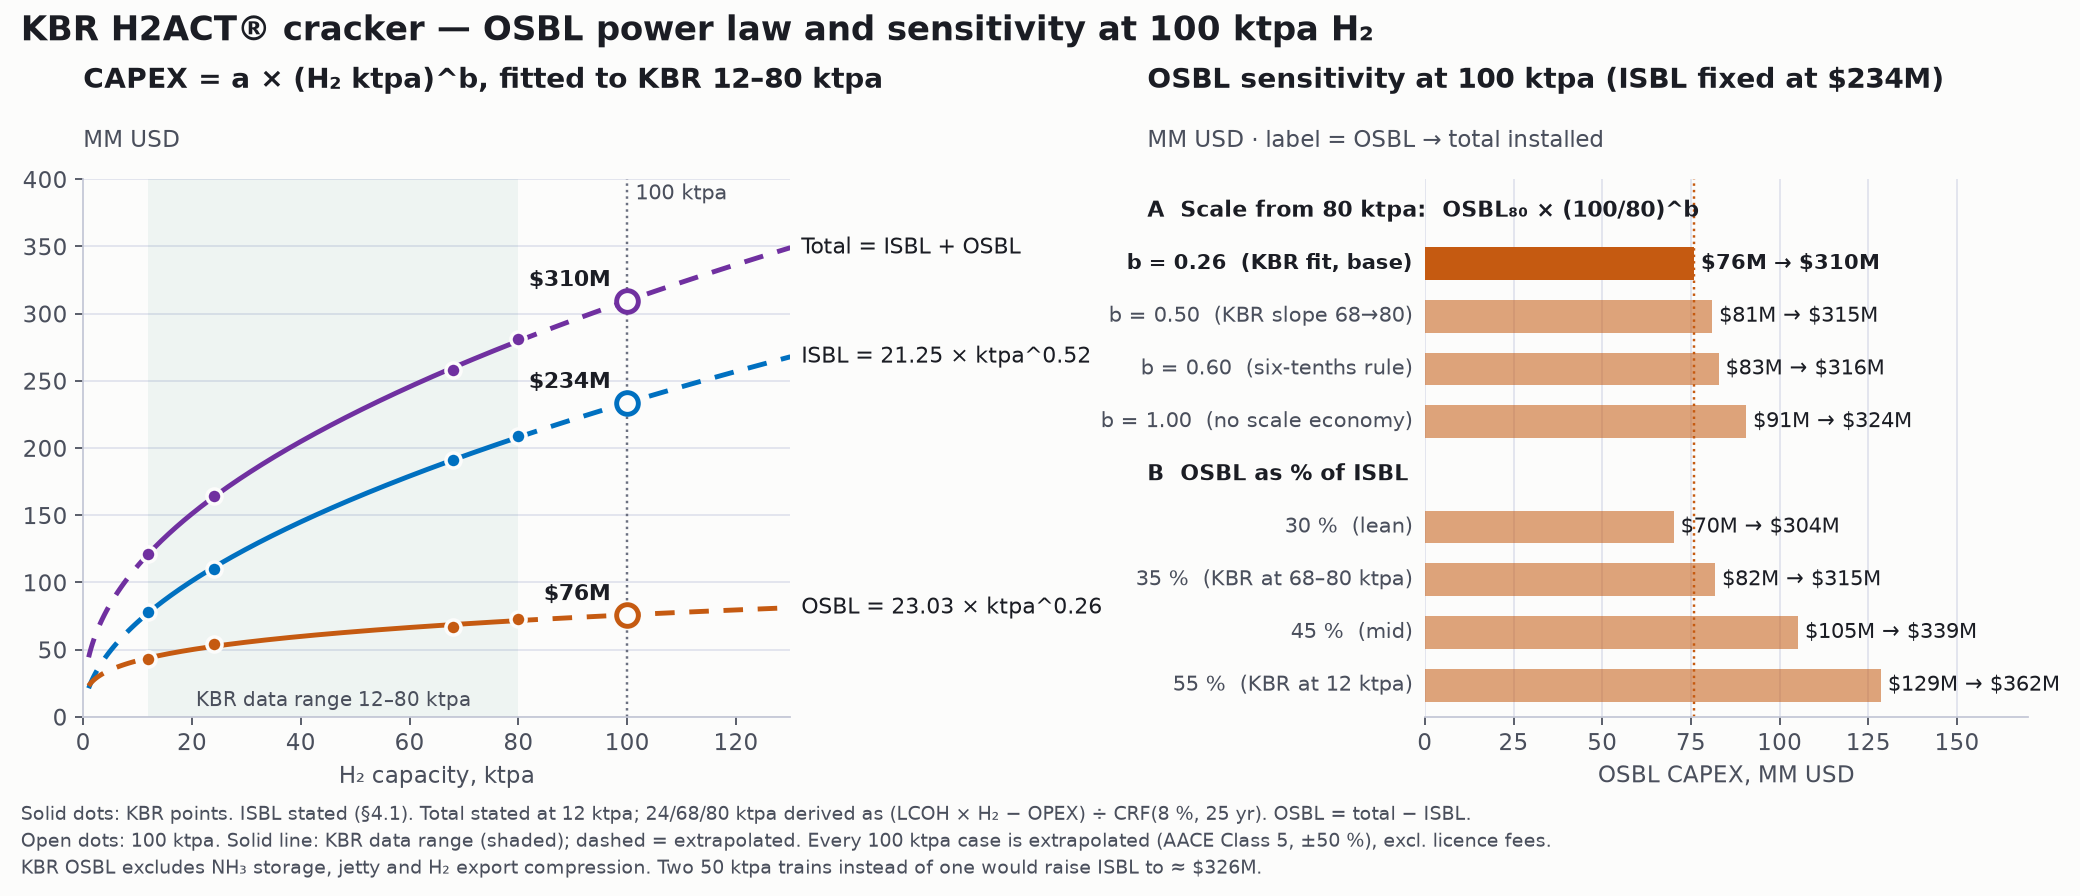
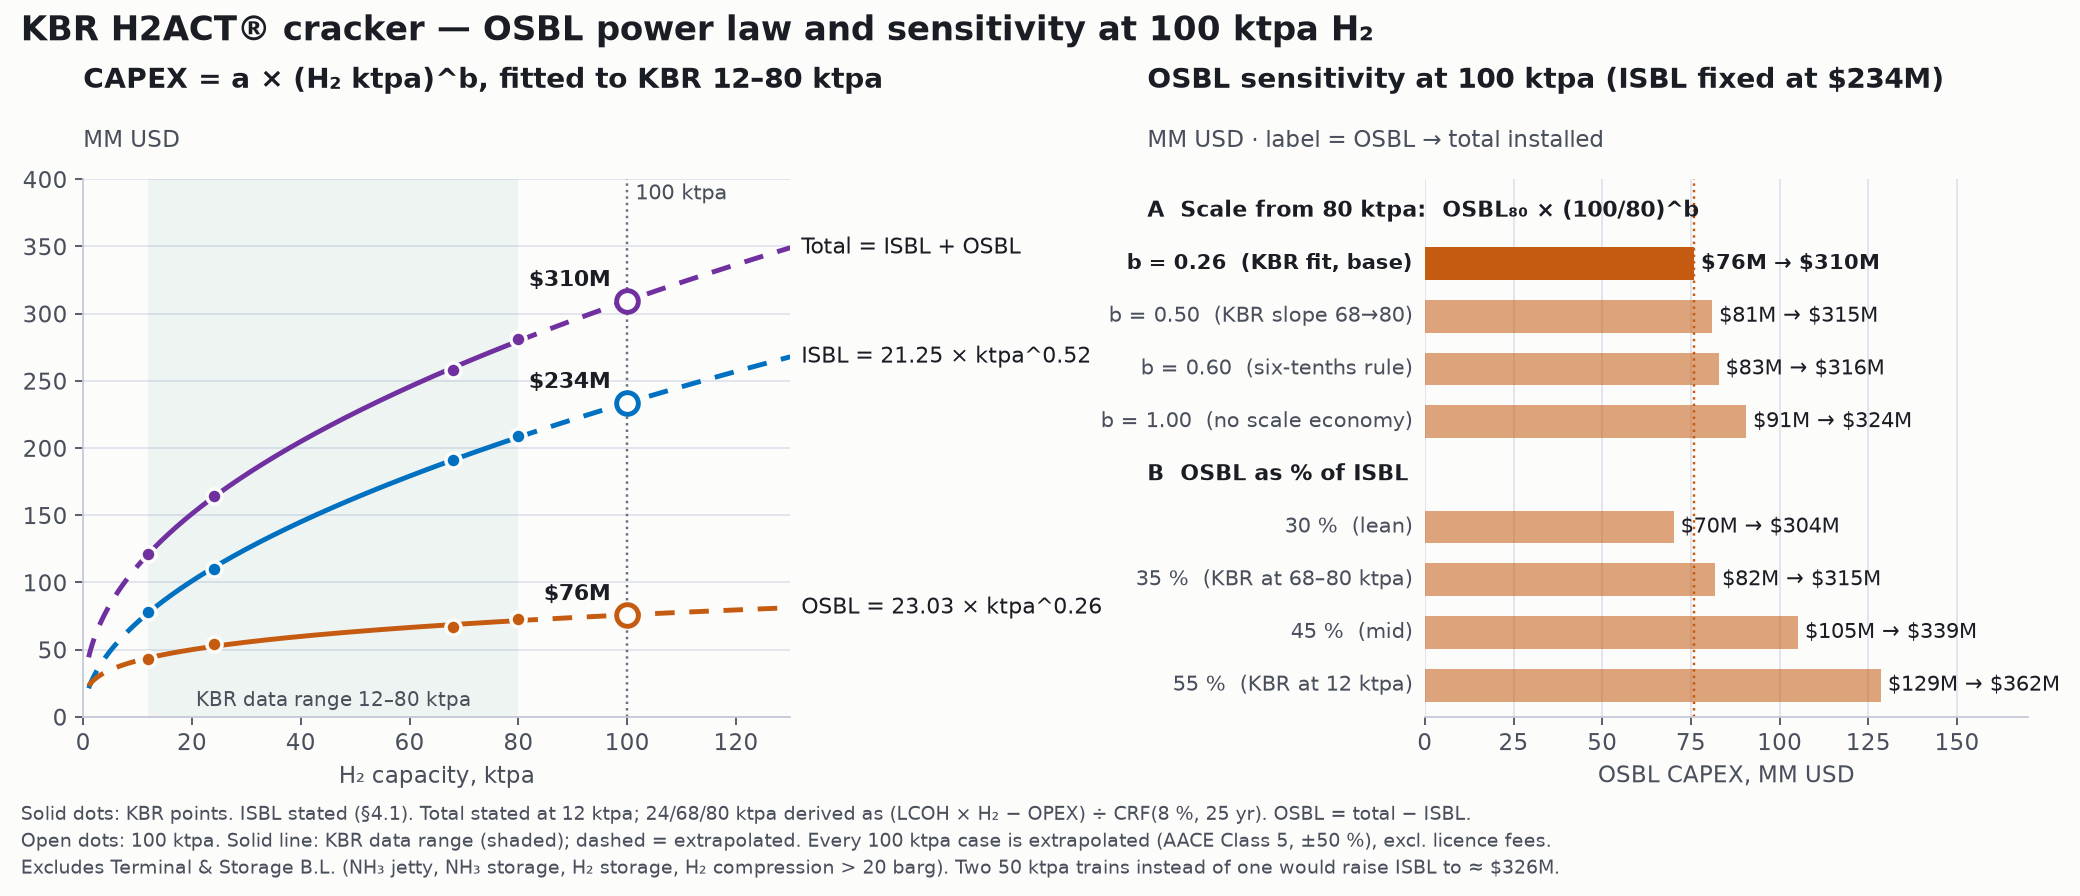
Cracker: name the scope outside KBR OSBL as Terminal & Storage B.L.
NH3 jetty, NH3 storage and storage flare, H2 storage and H2 compression above 20 barg
are not in KBR's OSBL equipment list (I.H) and are now labelled as a separate battery
limit in the CAPEX note, the cracker notes and the OSBL sensitivity chart.

Claude-Session: https://claude.ai/code/session_01CzfTw3rdW39anGrdQ1CELx

Changed region(s): [[0.0, 0.9375, 0.6875, 1.0], [0.7188, 0.9375, 0.75, 1.0]]

diff --git a/Dashboard/public/modules/nh3-cracker-design.html b/Dashboard/public/modules/nh3-cracker-design.html
@@ -1199,7 +1199,7 @@ function renderCapex(I, r) {
       <tr class="${r.ref === "duiker" ? "active" : ""}"><td>Duiker lump-sum turnkey</td><td>12 → ${fmt(DUIKER.capexEurM * I.fx, 1)} (€47M × ${fmt(I.fx, 4)})</td><td class="n">${fmt(DUIKER.capexEurM * I.fx / Math.pow(12, I.duikerExp), 2)}</td><td class="n">${fmt(I.duikerExp, 3)}</td><td class="n">—</td><td>One point; exponent borrowed (default = KBR total fit)</td></tr>
     </tbody>`;
   const osbl = caps(KBR_TOTAL).map((c) => `${c} ktpa ${fmt((KBR_TOTAL[c].v / KBR.isbl[c] - 1) * 100, 0)} %`).join(", ");
-  $("capexNote").innerHTML = `CAPEX = a × (H₂ ktpa)<sup>b</sup>, least-squares fit in log space. KBR total installed = ISBL fit + OSBL fit; the OSBL exponent (${fmt(FIT_OSBL.b, 2)}) is flatter than ISBL (${fmt(FIT_ISBL.b, 2)}), so OSBL's share falls with scale. KBR OSBL excludes NH₃ storage, jetty and H₂ export compression. KBR's LCOH implies OSBL shrinks with scale (${osbl} of ISBL), matching KBR's note that OSBL "reduces for larger capacity"; the flat 55 % used elsewhere overstates OSBL above 24 ktpa. Duiker's €47M already includes buildings, civil works, EPC and the construction licence fee (Table 8). KBR excludes contingency, owner's costs, licence fees and royalties (§4.1).`;
+  $("capexNote").innerHTML = `CAPEX = a × (H₂ ktpa)<sup>b</sup>, least-squares fit in log space. KBR total installed = ISBL fit + OSBL fit; the OSBL exponent (${fmt(FIT_OSBL.b, 2)}) is flatter than ISBL (${fmt(FIT_ISBL.b, 2)}), so OSBL's share falls with scale. KBR OSBL (Annex I.H utilities and offsites) does not cover the <b>Terminal &amp; Storage B.L.</b>: NH₃ jetty, NH₃ storage and storage flare, H₂ storage and H₂ compression above KBR's 20 barg delivery. Cost these separately. KBR's LCOH implies OSBL shrinks with scale (${osbl} of ISBL), matching KBR's note that OSBL "reduces for larger capacity"; the flat 55 % used elsewhere overstates OSBL above 24 ktpa. Duiker's €47M already includes buildings, civil works, EPC and the construction licence fee (Table 8). KBR excludes contingency, owner's costs, licence fees and royalties (§4.1).`;
 }
 
 function drawCapexChart(I, r) {

diff --git a/Dashboard/docs/cracker-model-notes.md b/Dashboard/docs/cracker-model-notes.md
@@ -194,7 +194,12 @@ At 100 ktpa (extrapolated): ISBL **$234M**, OSBL **$76M**, total **$310M**. Sens
 | 45 % of ISBL | 105 | 339 |
 | 55 % of ISBL (KBR at 12 ktpa) | 129 | 362 |
 
-Two 50 ktpa trains instead of one would put ISBL at ≈ $326M. KBR OSBL excludes NH₃ storage, jetty and H₂ export
-compression.
+Two 50 ktpa trains instead of one would put ISBL at ≈ $326M.
+
+**Terminal & Storage B.L.** (Gentari definition, 2026-10-03): the scope outside KBR's OSBL, costed separately — NH₃ jetty,
+NH₃ storage and storage flare, H₂ storage, H₂ compression above 20 barg. Basis: KBR's OSBL equipment list (I.H, Units
+101–114) covers utilities, flare, air, N₂, water, waste water and H₂ export metering only; §1 and §4.1 name storage, jetty
+and H₂ storage as OSBL but KBR does not say what its ~55 % OSBL cost factor covers, so this split is Gentari's reading.
+Buildings and laboratories appear in §1/§4.1 but not in I.H; confirm with KBR.
 
 ![KBR OSBL power law and 100 ktpa sensitivity](figures/kbr-osbl-sensitivity.png)
